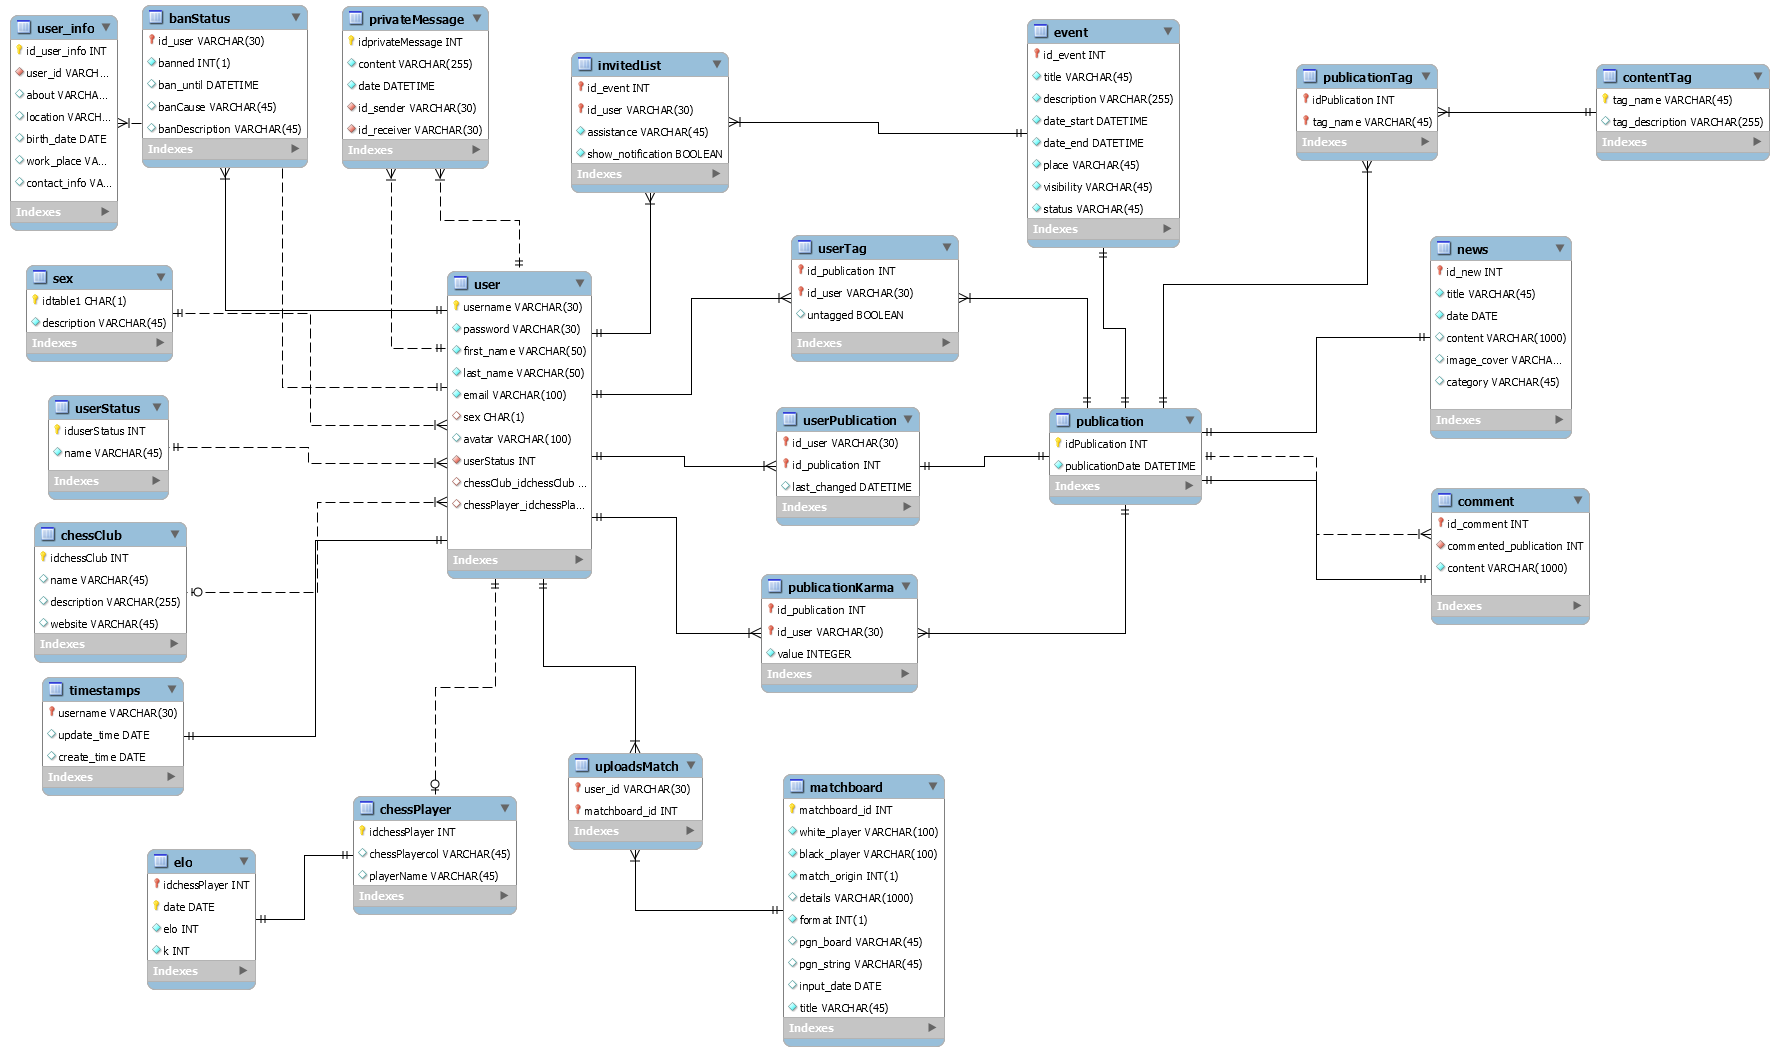
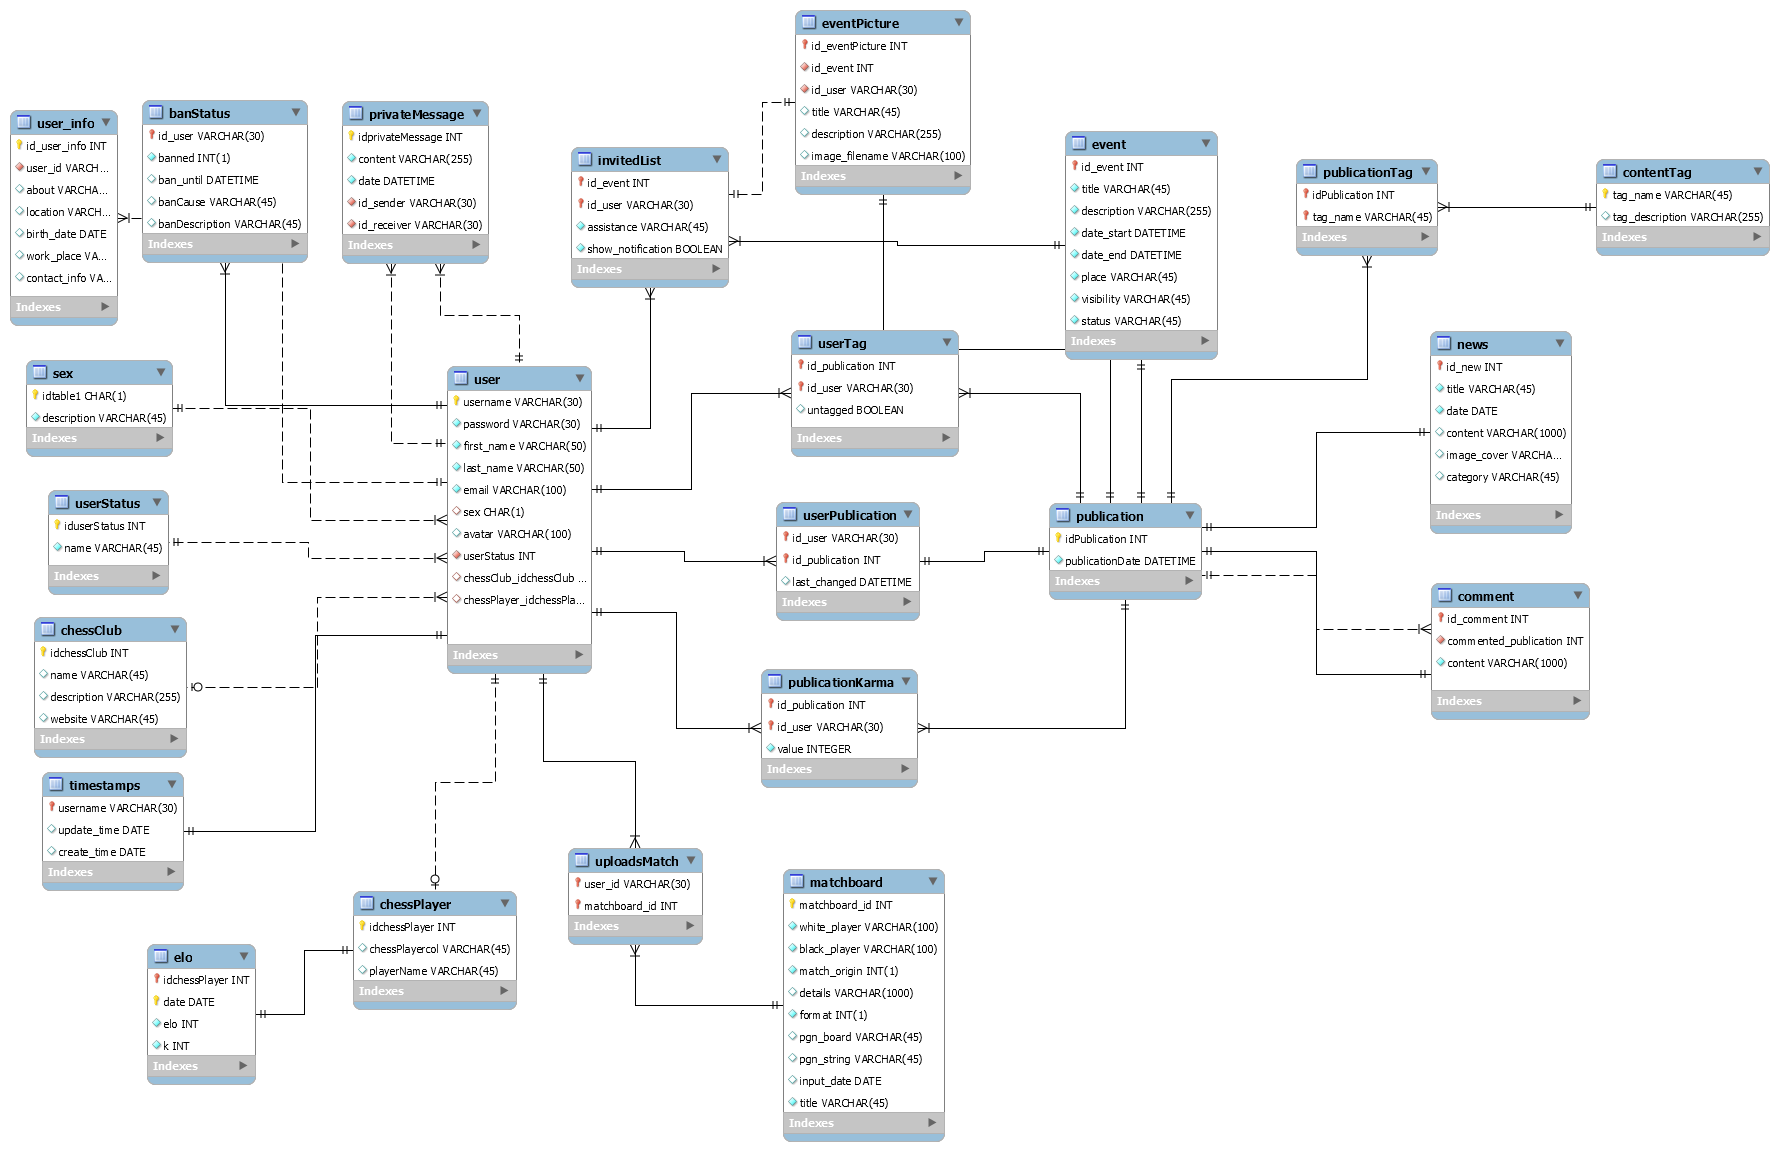
Cambios para las imágenes en eventos

diff --git a/application/models/Data_model.php b/application/models/Data_model.php
@@ -59,16 +59,46 @@ Class data_model extends CI_model{
 		return $this->db->query("SELECT COALESCE(COUNT(id_event),0) as numberOfEvents FROM event, userPublication WHERE id_event = id_publication AND id_user='".$id_user."' AND status='ended';");
 	}
 	
+	
 	public function send_message($sender, $receiver, $content){
 		//TODO: usar esto pa mandar mensajes entre usuarios
 		return $this->db->simple_query("INSERT INTO privateMessage VALUES (null, 'holahola', 'user01', 'user02');");
 	}
 	
+	public function addEventPicture($id_publisher, $id_event, $title = '', $description = '', $image){
+		
+		//si el usuario no confirmó asistencia al evento
+		if(count($this->db->query("SELECT * FROM invitedList WHERE assistance != 'confirmed' AND id_event='".$id_event."' AND id_publisher='".$id_publisher."';")->result_array()) < 1)
+			return false;
+		
+		//comenzar la transacción
+		$this->db->trans_start();
+		//Creo una nueva publicacion
+		$this->db->query(	"INSERT INTO publication VALUES (null, NOW());");
+		
+		//guardo la ID en @publication_id
+		$this->db->query("	SELECT LAST_INSERT_ID()
+							INTO @publication_id;");
+		
+		//inserto la relación publicación-publicador en la tabla correspondiente
+		$this->db->query("	INSERT INTO userPublication
+							VALUES ('".$id_publisher."', @publication_id, NOW());");
+		//inserto la foto del evento con la id de publicación obtenida
+		$this->db->query("	INSERT INTO eventPicture
+							VALUES (@publication_id, '".$id_event."', '".$id_publisher."', '".$title."', '".$description."', '".$image."');");
+		//termina la transacción
+		$this->db->trans_complete();
+		
+		return $this->db->trans_status();
+	}
+	
+	//obtiene el puntaje de la publicación
 	public function getPublicationScore($id_publication){
 		//TODO: retornar el puntaje de una publicación
 		return $this->db->query("SELECT COALESCE(SUM(value), 0) as score FROM `publicationkarma` WHERE id_publication = '".$id_publication."'")->result_array()[0]["score"];
 	}
 	
+	/*Actualiza el puntaje asignado por el usuario a la publicación*/
 	public function updateScore($id_user, $id_publication, $new_score){
 		$this->trans_start();
 		if($this->db->query("SELECT * FROM publicationKarma WHERE id_publication = '".$id_publication."' AND id_user = '".$id_user."';")->num_rows()){
@@ -81,11 +111,12 @@ Class data_model extends CI_model{
 		return $this->db->trans_status();		
 	}
 	
+	//obtiene las publicaciones del usuario
 	function getPublications($id_user){
 		$result["events"] = $this->db->query("SELECT * FROM event, userPublication WHERE userPublication.id_user='".$id_user."' AND userPublication.id_publication=event.id_event;")->result_array();
 		$result["news"] = $this->db->query("SELECT * FROM news, userPublication WHERE userPublication.id_user='".$id_user."' AND userPublication.id_publication=news.id_new;")->result_array();
 		//$result["games"] = $this->db->query();
-		//$result["comments"] = $this->db->query();
+		$result["comments"] = $this->db->query("SELECT * FROM ");
 		return $result;
 	}
 	

diff --git a/application/controllers/Publication_controller.php b/application/controllers/Publication_controller.php
@@ -111,7 +111,7 @@ class Publication_controller extends CI_Controller{
 	public function publish_game(){
 		checkPermission(3);
 		$this->load->library('form_validation');
-		$header = array('title' => 'Crear Partida', 'css_file_paths' => getCSS('default'));
+		$header_data = array('title' => 'Crear Partida', 'css_file_paths' => getCSS('default'));
 		$this->load->view('header',$header_data);
 		$this->load->view('navbar');
 	
